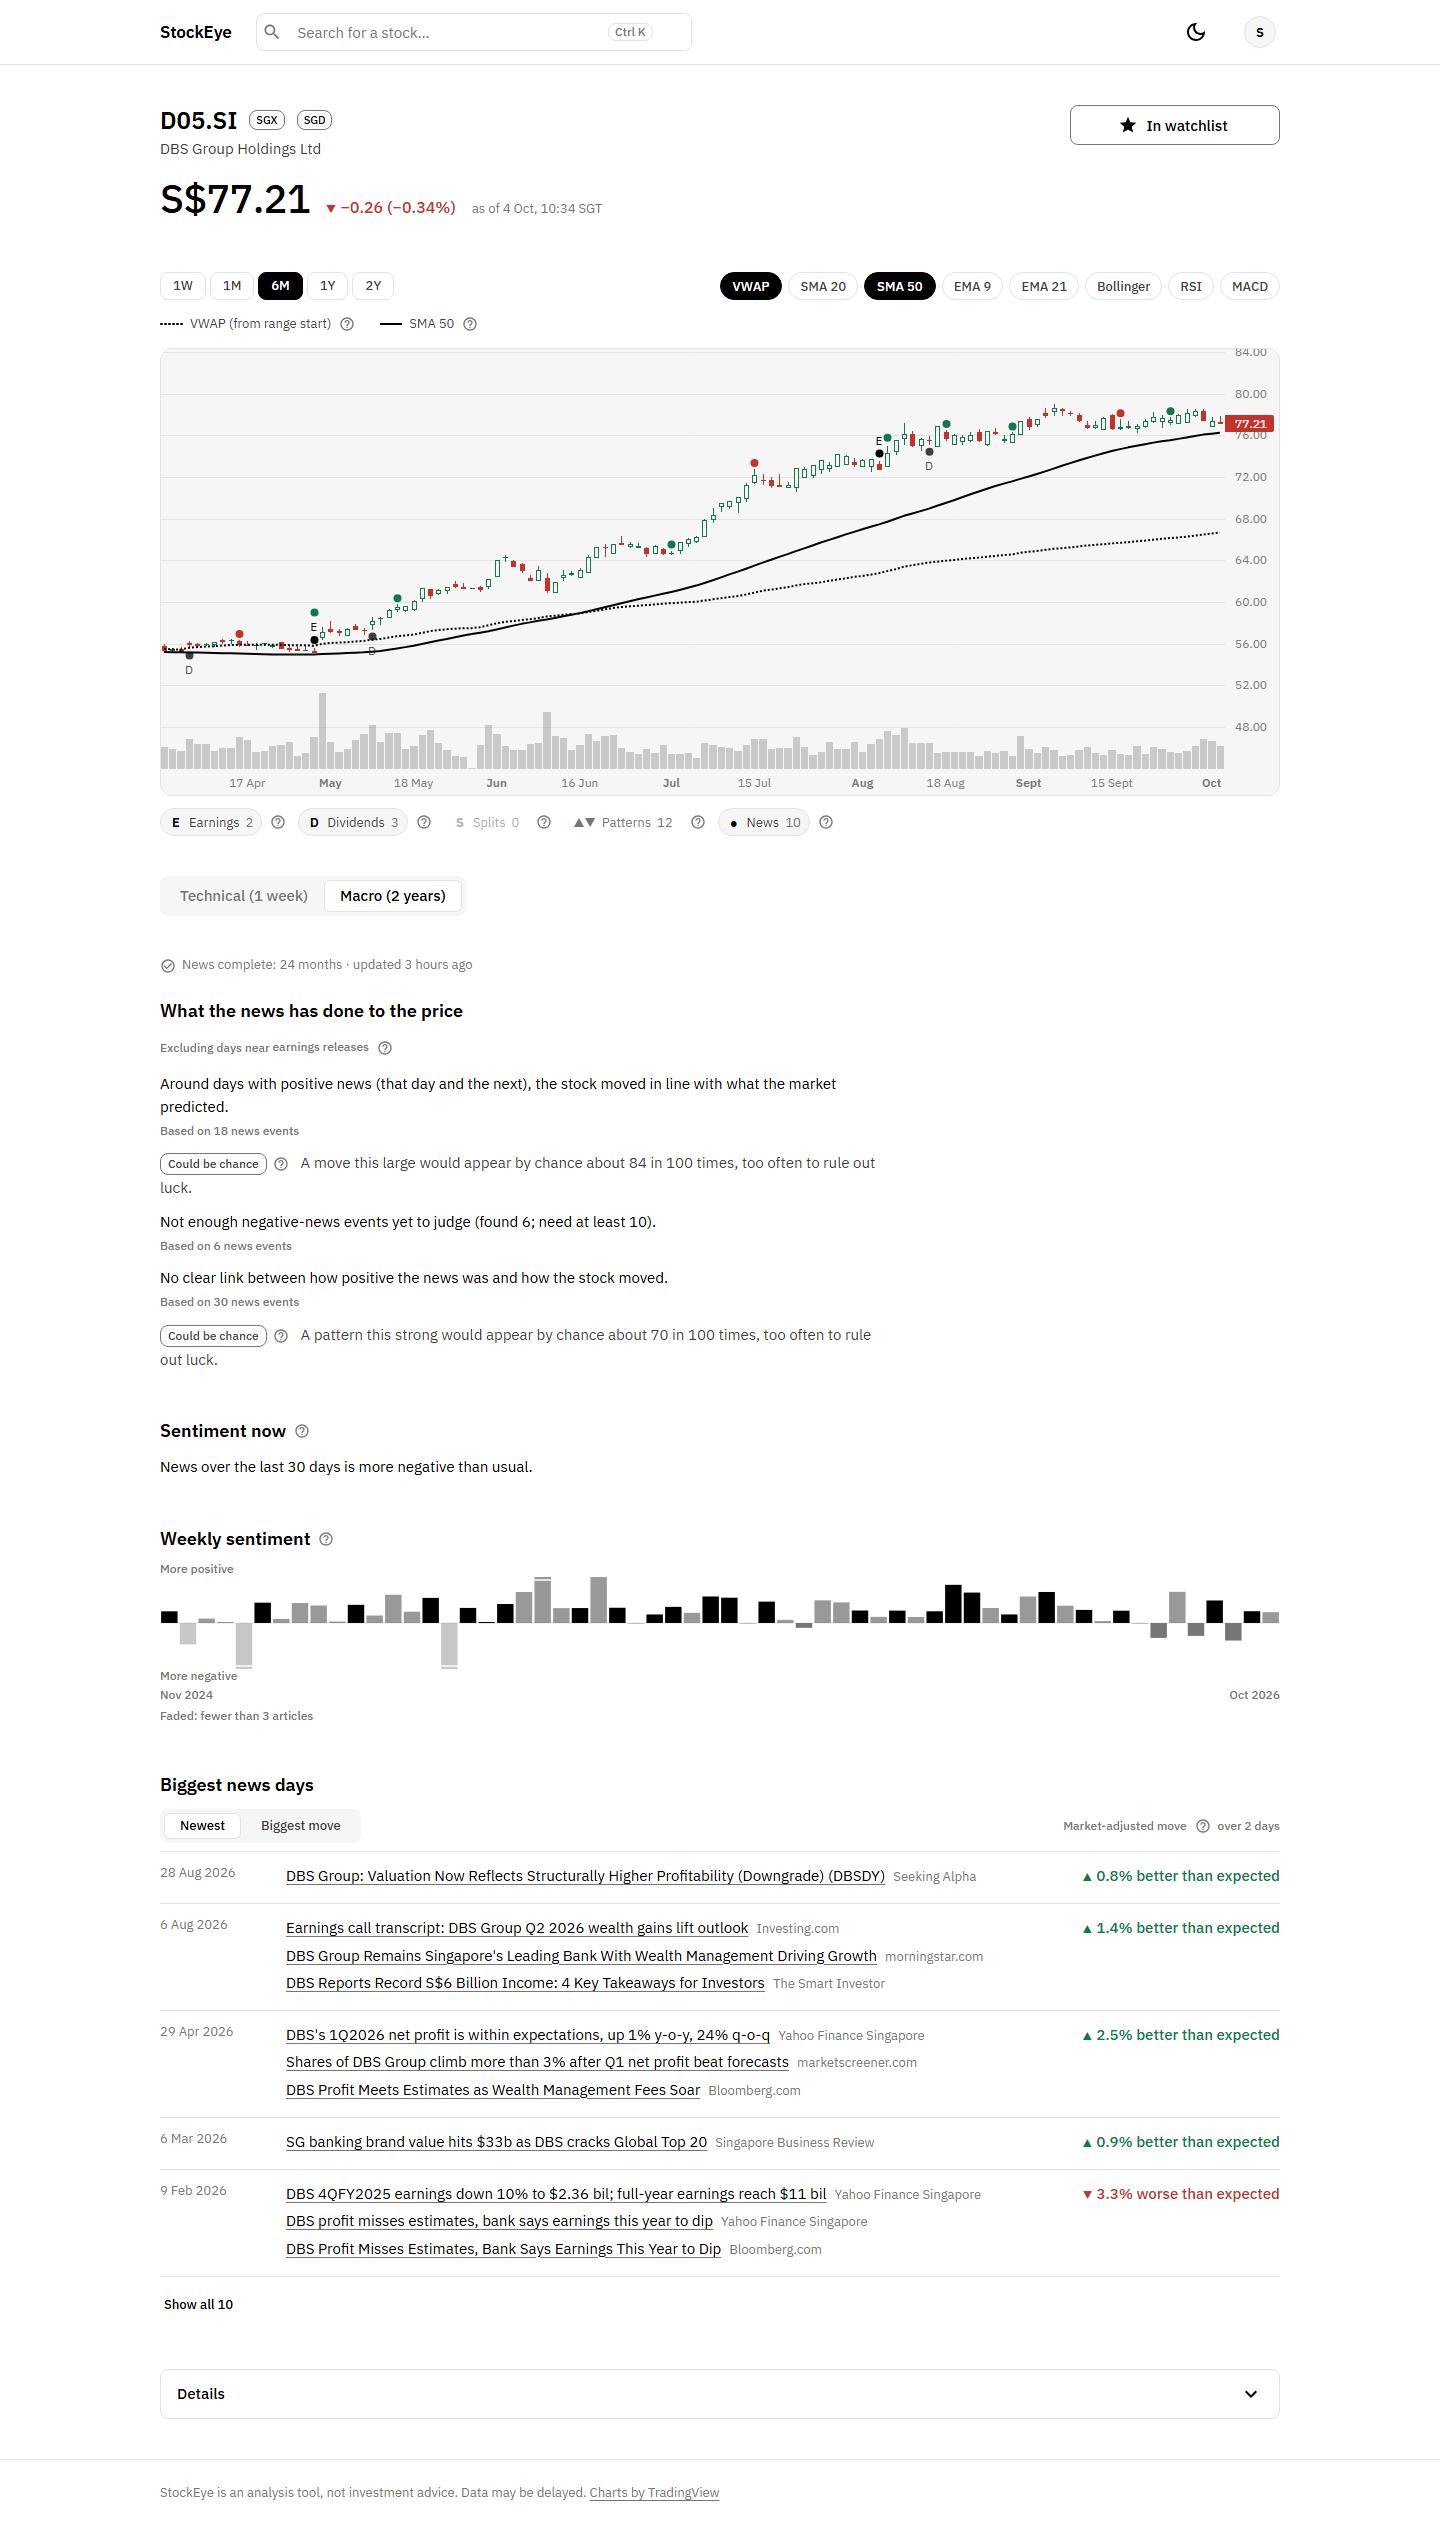
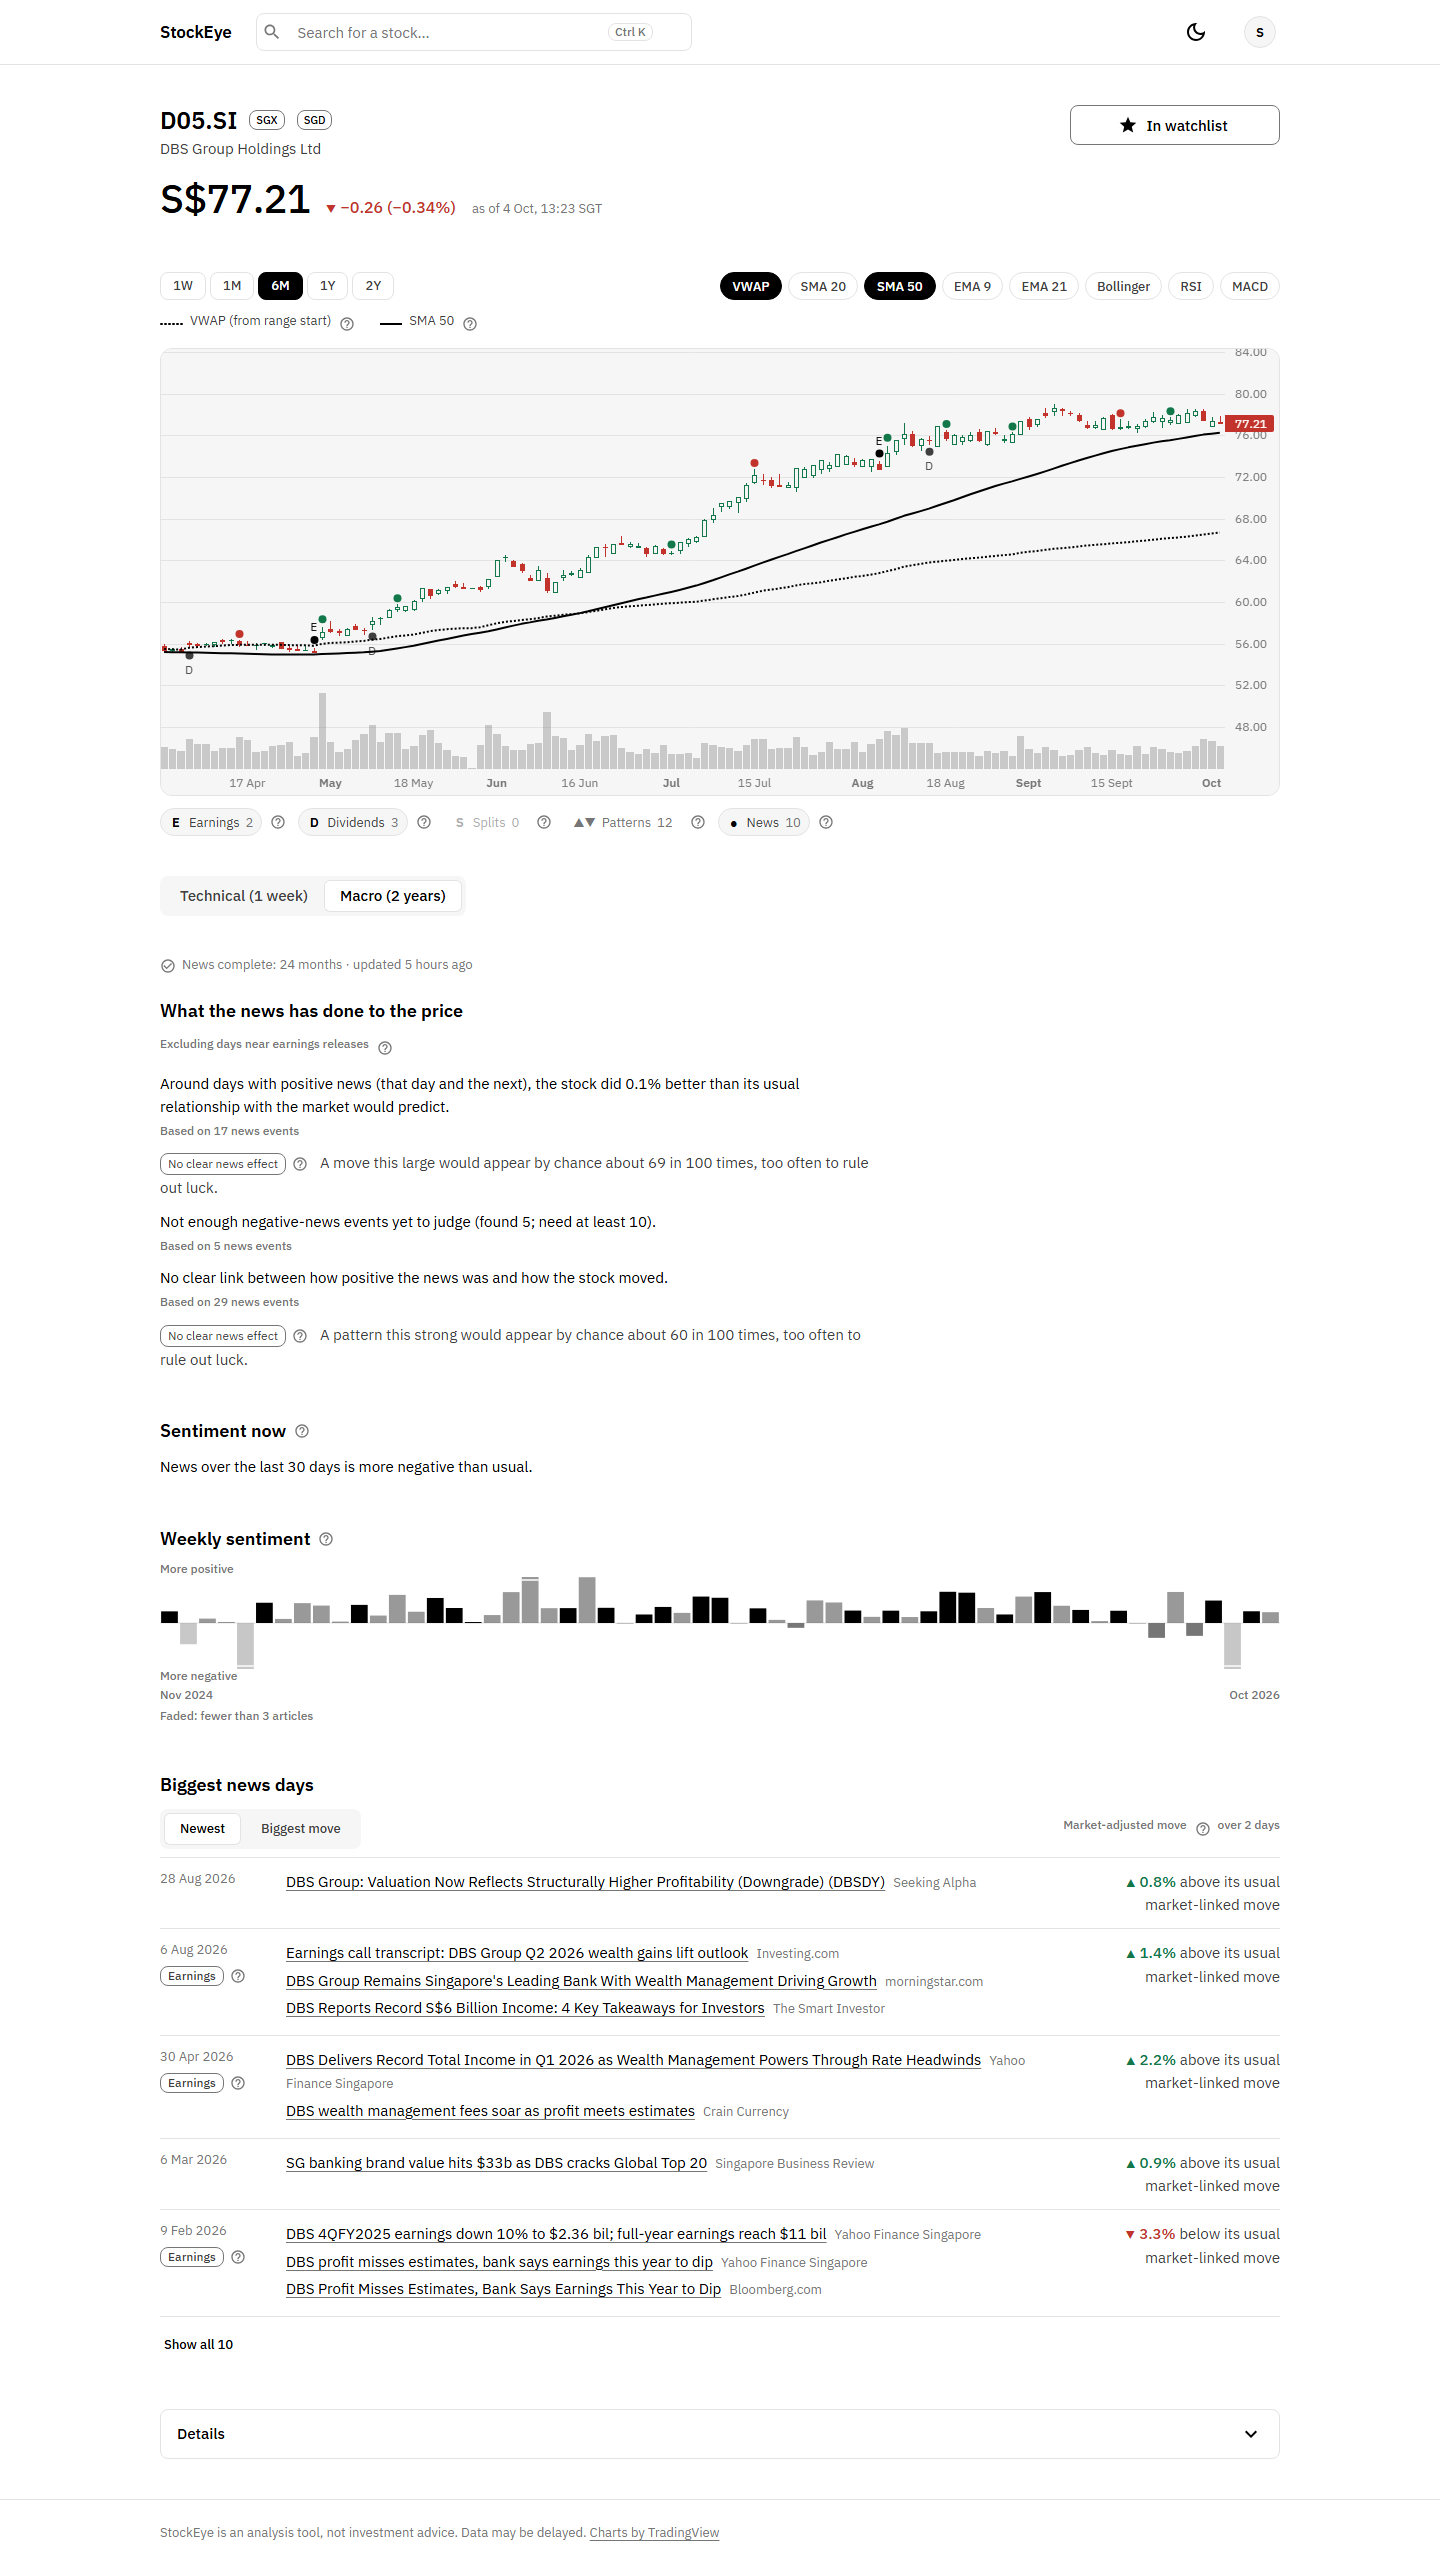
fix(frontend): keep the market-adjusted move inside its column; screenshots
The move column is bounded; only the figure stays on one line and
'market-linked' uses a non-breaking hyphen so it wraps cleanly.

diff --git a/frontend/src/features/stock/TopEvents.tsx b/frontend/src/features/stock/TopEvents.tsx
@@ -12,7 +12,7 @@ import { Direction } from '../../components/Direction';
 import { SectionTitle } from '../../components/SectionTitle';
 import { Term } from '../../components/Term';
 import type { Exchange } from '../../lib/exchange';
-import { formatDate, moveText } from '../../lib/format';
+import { formatDate, moveParts } from '../../lib/format';
 import { segmentedStyles } from '../../theme/segmented';
 
 const TOP_SHOWN = 5;
@@ -44,13 +44,27 @@ function ordered(events: TopEventOut[], order: Order): TopEventOut[] {
   return sorted.sort((a, b) => Math.abs(b.car_0_1) - Math.abs(a.car_0_1));
 }
 
+/** The figure stays on one line with its arrow; the explanation wraps within the column. */
+function MoveText({ fraction }: { fraction: number }) {
+  const { figure, rest } = moveParts(fraction);
+  if (!figure) return <Direction value={0} text={rest} />;
+  return (
+    <>
+      <Direction value={fraction * 100} text={figure} />{' '}
+      <Box component="span" sx={{ color: 'ink2' }}>
+        {rest}
+      </Box>
+    </>
+  );
+}
+
 function EventRow({ event: e, exchange }: { event: TopEventOut; exchange: Exchange }) {
   return (
     <Box
       component="li"
       sx={{
         display: 'grid',
-        gridTemplateColumns: { xs: '1fr', sm: '110px 1fr 210px' },
+        gridTemplateColumns: { xs: '1fr', sm: '110px minmax(0, 1fr) 220px' },
         columnGap: 2,
         rowGap: 0.5,
         py: 1.5,
@@ -91,8 +105,8 @@ function EventRow({ event: e, exchange }: { event: TopEventOut; exchange: Exchan
           </Typography>
         ))}
       </Box>
-      <Typography component="div" sx={{ textAlign: { sm: 'right' } }}>
-        <Direction value={e.car_0_1 * 100} text={moveText(e.car_0_1)} />
+      <Typography component="div" sx={{ textAlign: { sm: 'right' }, minWidth: 0 }}>
+        <MoveText fraction={e.car_0_1} />
       </Typography>
     </Box>
   );

diff --git a/frontend/src/lib/format.ts b/frontend/src/lib/format.ts
@@ -187,9 +187,22 @@ export function formatRelative(iso: string, now: number = Date.now()): string {
   return 'just now';
 }
 
-/** Market-adjusted 2-day move from a fraction (0.021 means 2.1% above its usual market-linked move). */
-export function moveText(fraction: number): string {
+/**
+ * Uses a non-breaking hyphen (U+2011) in "market‑linked" so a wrapping line never splits it.
+ * Market-adjusted 2-day move from a fraction (0.021 means 2.1% above its usual market-linked
+ * move), split so a row can keep the figure on one line and let the rest wrap.
+ */
+export function moveParts(fraction: number): { figure: string | null; rest: string } {
   const size = formatPct(Math.abs(fraction) * 100);
-  if (size === formatPct(0)) return 'In line with its usual market-linked move';
-  return `${size} ${fraction > 0 ? 'above' : 'below'} its usual market-linked move`;
+  if (size === formatPct(0))
+    return { figure: null, rest: 'In line with its usual market‑linked move' };
+  return {
+    figure: size,
+    rest: `${fraction > 0 ? 'above' : 'below'} its usual market‑linked move`,
+  };
+}
+
+export function moveText(fraction: number): string {
+  const { figure, rest } = moveParts(fraction);
+  return figure ? `${figure} ${rest}` : rest;
 }

diff --git a/frontend/src/lib/format.test.ts b/frontend/src/lib/format.test.ts
@@ -52,10 +52,10 @@ describe('dateFormat and hour12For', () => {
 });
 
 describe('moveText', () => {
-  it('says above, below or in line with the stock’s usual market-linked move', () => {
-    expect(moveText(0.021)).toBe('2.1% above its usual market-linked move');
-    expect(moveText(-0.014)).toBe('1.4% below its usual market-linked move');
-    expect(moveText(0)).toBe('In line with its usual market-linked move');
-    expect(moveText(0.00001)).toBe('In line with its usual market-linked move');
+  it('says above, below or in line with the stock’s usual market‑linked move', () => {
+    expect(moveText(0.021)).toBe('2.1% above its usual market‑linked move');
+    expect(moveText(-0.014)).toBe('1.4% below its usual market‑linked move');
+    expect(moveText(0)).toBe('In line with its usual market‑linked move');
+    expect(moveText(0.00001)).toBe('In line with its usual market‑linked move');
   });
 });

diff --git a/frontend/src/features/stock/Tabs.test.tsx b/frontend/src/features/stock/Tabs.test.tsx
@@ -202,7 +202,8 @@ describe('Macro tab', () => {
     ).toBeInTheDocument();
     expect(screen.getByText('Possible news effect')).toBeInTheDocument();
     expect(screen.getByText(/A pattern this strong would appear by chance/)).toBeInTheDocument();
-    expect(screen.getByText('3.3% above its usual market-linked move')).toBeInTheDocument();
+    expect(screen.getByText('3.3%')).toBeInTheDocument();
+    expect(screen.getByText('above its usual market‑linked move')).toBeInTheDocument();
     expect(screen.getByRole('link', { name: 'Apple to Bring TV+ to Android' })).toHaveAttribute(
       'target',
       '_blank',

diff --git a/frontend/src/features/chart/chart.test.ts b/frontend/src/features/chart/chart.test.ts
@@ -192,10 +192,10 @@ describe('tooltip text', () => {
       }),
     ).toBe('Hammer');
     expect(eventText({ time: 'x', kind: 'news', label: 'DBS beats', car_0_1: 0.021 })).toBe(
-      'News: “DBS beats” (2.1% above its usual market-linked move over 2 days)',
+      'News: “DBS beats” (2.1% above its usual market‑linked move over 2 days)',
     );
     expect(eventText({ time: 'x', kind: 'news', label: 'Probe', car_0_1: -0.014 })).toContain(
-      '1.4% below its usual market-linked move',
+      '1.4% below its usual market‑linked move',
     );
   });
 

diff --git a/docs/PLAN.md b/docs/PLAN.md
@@ -335,5 +335,5 @@ One Sonnet task, after the types are regenerated.
 - [x] C2 wording and data
 - [x] Backend thermo review approved (889 tests)
 - [x] F1 frontend, plus the Opus review approved
-- [ ] Live verification and screenshots
+- [x] Live verification and screenshots
 - [ ] PRs open and CI green
